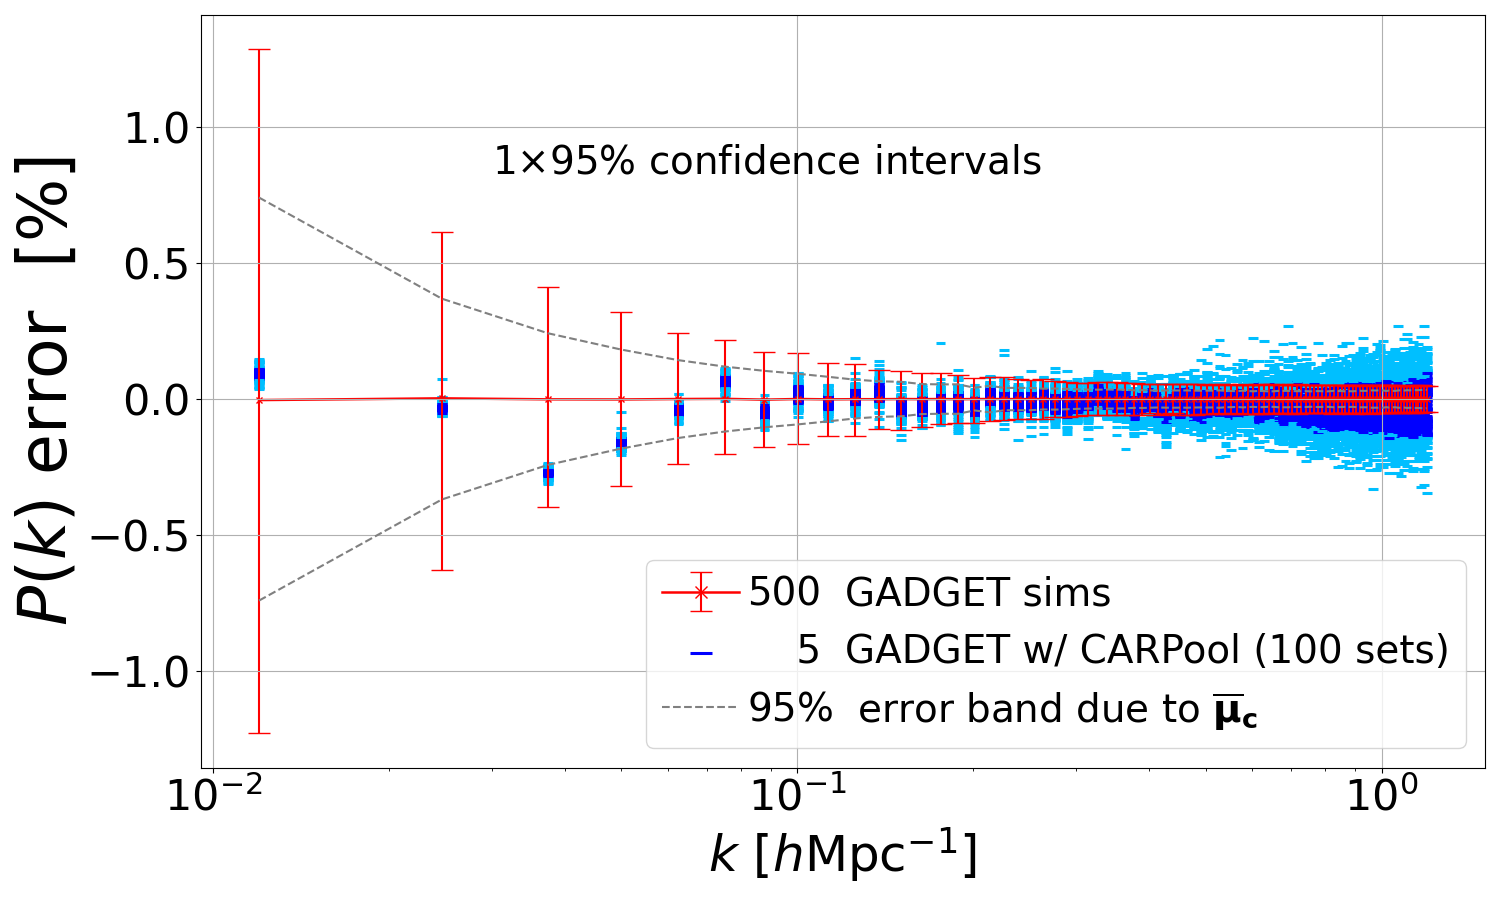
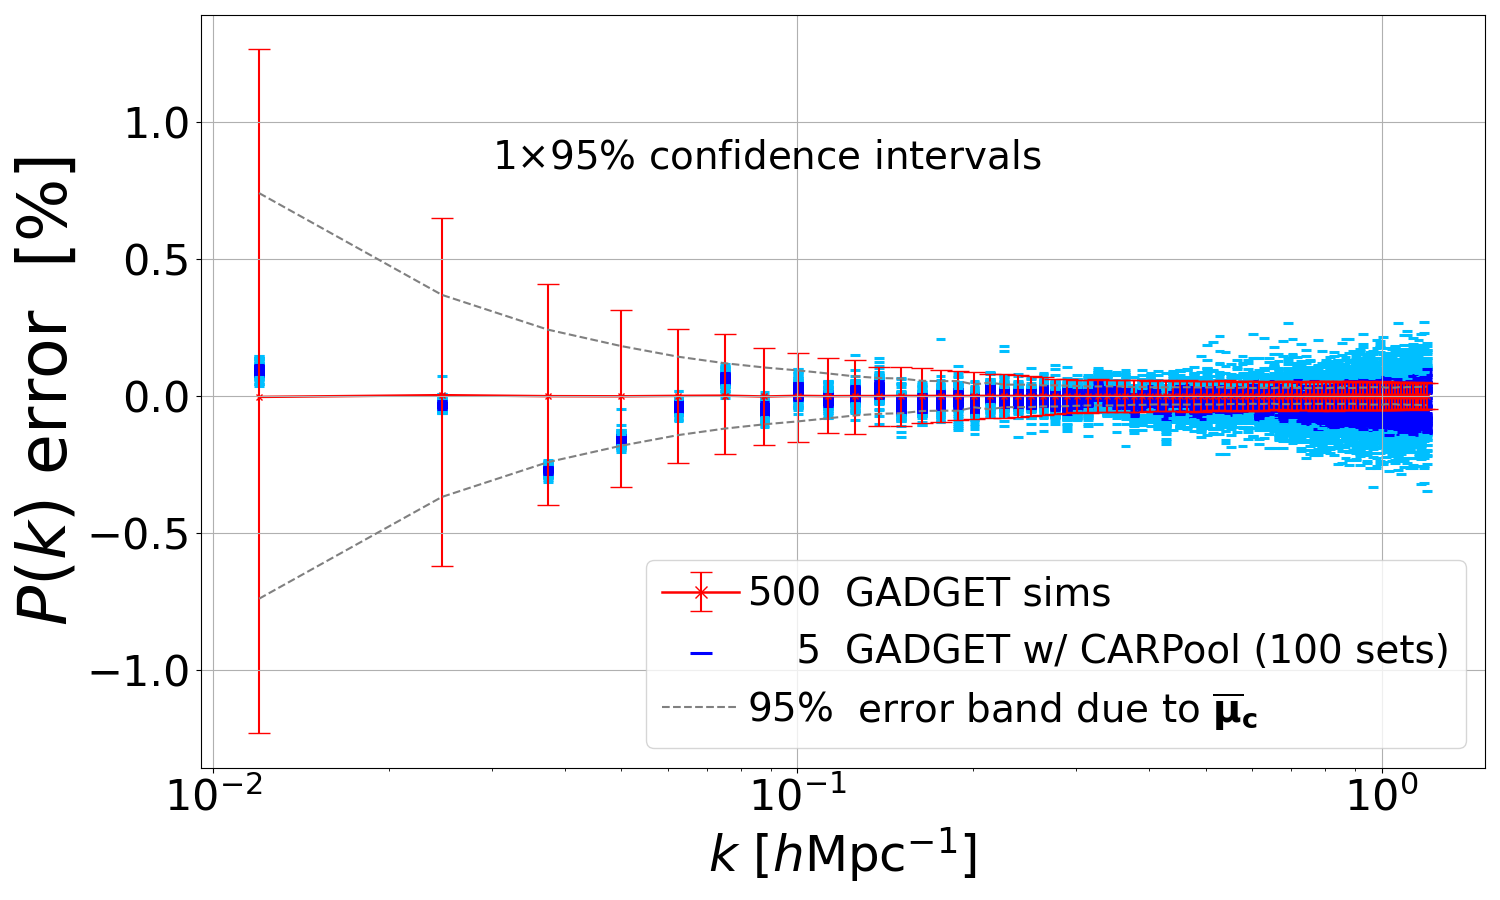
Some corrections for q > 1

diff --git a/pyCARPool/carpool.py b/pyCARPool/carpool.py
@@ -271,7 +271,7 @@ class CARPool:
 
             '''
             
-            S = int(self.P*(self.P + 1)/2)
+            S = int(self.P*(self.P + 1)/2) # number of unique elements in a (P,P) symmetric matrix
             self.PSDBool = [] # list of booleans for positive semi-definiteness test
             
             # Set functions that differ given the arguments
@@ -279,7 +279,8 @@ class CARPool:
             vectorize = vectorizeSymMat if standardVec else customVectorizeSymMat
             reconstruct = reconstructSymMat if standardVec else customReconstructSymMat
             
-            # reconstruct must be available to the user to visualize the data
+            # reconstruct/vectorize must be available to the user to visualize the data
+            self.vectorizeSymMat = vectorize
             self.reconstructSymMat = reconstruct
             
             strStart = "INCREMENTAL" if self.Incremental == True else "FIXED"
@@ -287,6 +288,7 @@ class CARPool:
             
             # Initialize the attributes hosting results
             self.covCARPool = np.zeros((S, self.nTests), dtype = np.float)
+            self.betaCovList = []
 
             if methodCI != "None":
                 self.lowCovCI = np.zeros((S, self.nTests), dtype = np.float)
@@ -322,6 +324,7 @@ class CARPool:
                     
                     # Here beta is a 1D array of floats
                     beta = uvCARPool_Beta(simSamples, surrSamples, self.smDict)
+                    self.betaCovList.append(beta)
                     
                     empSim = np.mean(simSamples, axis = 1)
                     empSurr = np.mean(surrSamples, axis = 1)
@@ -368,6 +371,7 @@ class CARPool:
                     muX, beta = hbCARPool_Est(simSamples, surrSamples, vectMuC, self.q)
                     
                     self.covCARPool[:,k] = corr * muX
+                    self.betaCovList.append(beta)
                     
                     psd = is_PSD(reconstruct(muX))
                     self.PSDBool.append(psd)
@@ -382,6 +386,33 @@ class CARPool:
                         self.upCovCI[:,k] = corr * upCI
              
             testprint("TEST FINISHED FOR COVARIANCE")
+            
+        def varianception(self, simData, surrData, covSurr, betaCovList, standardVec):
+            
+            if self.nTests != len(self.betaCovList):
+                print("The number of beta matrices (for covariance) is not the same as nTests. Check consistency") 
+            
+            # Set functions that differ given the arguments
+            testprint = print if self.verbose else lambda *a, **k: None
+            vectorize = vectorizeSymMat if standardVec else customVectorizeSymMat
+            
+            # np.ndarray.copy() produces a deep copy (necessary if cauldron != identity)
+            simSamples = vectOuterProd(centeredData(simData), standardVec)
+            surrSamples = vectOuterProd(centeredData(surrData),standardVec)
+            
+            # Covariance of surrogate
+            vectMuC = vectorize(covSurr)
+            
+            # Initialize results array
+            sigma2Cov = np.zeros((simSamples.shape[0], self.nTests), dtype = np.float)
+                 
+            for k in range(self.nTests):
+                
+                xColl = CARPoolSamples(simSamples, surrSamples, vectMuC, self.p, self.q, self.betaCovList[k])
+                sigma2Cov[:,k] = np.var(xColl, axis = 1, ddof = 1)
+                testprint("Variance of covariance, test %i over %i done"%(k + 1, self.nTests))
+                
+            return sigma2Cov
 #%% ESTIMATION TOOLS
 
 ########################
@@ -599,7 +630,6 @@ def mvCARPool_Mu(empSim, empSurr, muSurr, betaMat):
     muCARP = empSim - np.matmul(betaMat, empSurr - muSurr)
     
     return muCARP
-    
 
 def mvCARPool_CI(simSamples, surrSamples, muSurr, beta, method, alpha, B):
     
@@ -743,15 +773,8 @@ def confidenceInt(dataSamples, method, alpha, B = 1000, progress = False):
 
 #%% Other handy functions, accessible outside of the class in the package
 
-# The default value of "cauldron" input is the identity function   
-def identity(X):
-    return X
-
 # Compute a single CARPool estimate with samples provided as inputs
-def CARPoolMu(simData, surrData, muSurr, p, q, smDict = None, cauldron = identity):
-    
-    simSamples = cauldron(simData)
-    surrSamples = cauldron(surrData)
+def CARPoolMu(simSamples, surrSamples, muSurr, p, q, smDict = None):
     
     P = simSamples.shape[0]
     Q = surrSamples.shape[0]
@@ -797,7 +820,6 @@ def CARPoolSamples(simSamples, surrSamples, muSurr, p, q, beta):
             raise ValueError("P and Q must be the same for this framework")
             
         betaMat = np.diag(beta)
-        
         xSamples = simSamples - np.matmul(betaMat, surrSamples - muSurr[:,np.newaxis])
         
     elif p == 1 and q > 1:
@@ -808,12 +830,10 @@ def CARPoolSamples(simSamples, surrSamples, muSurr, p, q, beta):
         shift = math.floor(q/2)
         nBins = simSamples.shape[0]
         
-        betaLength = nBins * q - 2 * shift
-        
-        if betaLength != beta.shape[0]:
-            raise ValueError("beta has not the right length")
-        
+        # Initialization
         xSamples = np.zeros((nBins, simSamples.shape[1]), dtype = np.float)
+        bStart = 0
+        bEnd = 0
         
         for n in range(nBins):
             
@@ -822,9 +842,8 @@ def CARPoolSamples(simSamples, surrSamples, muSurr, p, q, beta):
             cStart = a if a >= 0 else 0
             cEnd = b + 1 if b + 1 < nBins else nBins
             
-            bStart = n * q - 1 if n > 0 else 0
-            bEnd = (n + 1) * q - 1 if n < nBins - 1 else betaLength
-            
+            bStart = bEnd
+            bEnd += cEnd - cStart
             betaMat = beta[bStart:bEnd]
             
             xSamples[n,:] = simSamples[n,:] - np.matmul(betaMat, surrSamples[cStart:cEnd,:] - muSurr[cStart:cEnd, np.newaxis])

diff --git a/examples/matterPk/main_examplePk.py b/examples/matterPk/main_examplePk.py
@@ -127,19 +127,19 @@ titleBool = False
 
 toolsPk.plot_cvRatiosBlues(muY, nSampSim, lowY, upY, barBool, testFix.muCARPool,
                  stdBetaAdd,boolStd, pkStep, k3D, factErrFix, percBool, trueBool,
-                 xlog, titleBool,truth, saveBool = True, saveFold = rootRes, saveStr = "Figure3")
+                 xlog, titleBool,truth, saveBool = False, saveFold = rootRes, saveStr = "Figure3")
 
 #%% VIII) Performance for an increasing number of samples
 methodCIInc = "tscore"
 NInc = 20
 
-testInc = myCARPool.createTest("Every 5 additional samples", pkStep, NInc, p, 5, Incremental = True)
+testInc = myCARPool.createTest("Every 5 additional samples", pkStep, NInc, p, q, Incremental = True)
 testInc.smDict = {"smBool": False,"wname":wname, "wlen": wlen, "indSmooth":indSmoothing}
 testInc.computeTest(myCARPool.simData, myCARPool.surrData, myCARPool.muSurr, methodCIInc, alpha, bootCard)
 
 # Reproduce figure 2 of 2009.08970 (if methodCIInc = bootstrapBCA ; bootstrap results may slightly differ)
 # For figure B2, use methodCIInc = tscore
-nSampCARP = 10
+nSampCARP = 5
 indCV = int(nSampCARP/pkStep) - 1
 factErrInc = 20
 zoomBool = True
@@ -190,34 +190,47 @@ sigmaReducUApp = np.sqrt(sigma2XXU[:,0])/sigYY # impact of an "improper" beta di
 
 toolsPk.plotVarReduc_Cov(reducVarM, reducVarU, sigmaReducM, sigmaReducU, sigmaReducUApp ,testInc_varM.Nsamples, k3D)
 
-#%% VI) Performance with 5 samples
+#%% VI) New test with q = 3
 q2 = 3
-testFix2 = myCARPool.createTest("Every 5 additional samples", pkStep, N, p, q2, Incremental = True)
-testFix2.smDict = {"smBool": False ,"wname":wname, "wlen": wlen, "indSmooth":indSmoothing}
-testFix2.computeTest(myCARPool.simData, myCARPool.surrData, myCARPool.muSurr, methodCIFix, alpha)
+testInc_q2 = myCARPool.createTest("Every 5 additional samples, q = 3", pkStep, NInc2, p, q2, Incremental = True)
+testInc_q2.smDict = {"smBool": False ,"wname":wname, "wlen": wlen, "indSmooth":indSmoothing}
+testInc_q2.computeTest(myCARPool.simData, myCARPool.surrData, myCARPool.muSurr, methodCIInc, alpha)
 
 # Reproduce Figure 3 (bottom panel) of 2009.08970
-nCV = 10
-indTest = int(nCV/pkStep) - 1
-betaMat = np.diag(testFix.betaList[indTest])
+nCV2 = 10
+indTest2 = int(nCV2/pkStep) - 1
 
-# Additional (co)variance brought by the estimation of muC (equation 12 in 2009.08970)
-SigmaBetaAdd = np.linalg.multi_dot([betaMat, SigmaMuC, betaMat.T]) * 1.0/len(seeds_muC)
-stdBetaAdd = np.sqrt(np.diag(SigmaBetaAdd, k = 0))
+toolsPk.Comparison_errBars(muY, testInc_q2.muCARPool[:,indTest2] , k3D, nSampSim, nCV2, 
+                           lowY, upY, testInc_q2.lowMeanCI[:,indTest2], testInc_q2.upMeanCI[:,indTest2],
+                       factErrInc,zoomBool, kTupleLim,zoomFact,tupleCor1, xlog, ylog, reducedPk, powerK)
 
[1 lines of base64/hex data omitted]
-if not(os.path.exists(rootRes)):
-    os.mkdir(rootRes)
+#%% VII) New test with q = 5
 
-barBool = True
-factErrFix = 1.0
-percBool = True
-trueBool = True
-epsilonBool = True
-boolStd = True
-xlog = True
-titleBool = False
+q3 = 5
+testInc_q3 = myCARPool.createTest("Every 5 additional samples, q = 5", pkStep, NInc2, p, q3, Incremental = True)
+testInc_q3.smDict = {"smBool": False ,"wname":wname, "wlen": wlen, "indSmooth":indSmoothing}
+testInc_q3.computeTest(myCARPool.simData, myCARPool.surrData, myCARPool.muSurr, methodCIInc, alpha)
 
-toolsPk.plot_cvRatiosBlues(muY, nSampSim, lowY, upY, barBool, testFix.muCARPool,
-                 stdBetaAdd,boolStd, pkStep, k3D, factErrFix, percBool, trueBool,
-                 xlog, titleBool,truth, saveBool = True, saveFold = rootRes, saveStr = "Figure3")
+# Reproduce Figure 3 (bottom panel) of 2009.08970
+nCV3 = 10
+indTest3 = int(nCV3/pkStep) - 1
+
+toolsPk.Comparison_errBars(muY, testInc_q3.muCARPool[:,indTest3] , k3D, nSampSim, nCV3, 
+                           lowY, upY, testInc_q3.lowMeanCI[:,indTest3], testInc_q3.upMeanCI[:,indTest3],
+                       factErrInc,zoomBool, kTupleLim,zoomFact,tupleCor1, xlog, ylog, reducedPk, powerK)
+
+#%% Extended variance analysis
+
+sigma2XXq2, logdetXXq2, signXXq2 = testInc_q2.varianceAnalysis(gadPk_varTest, colaPk_varTest, myCARPool.muSurr)
+detXXq2 = signXXq2 * np.exp(logdetXXq2)
+reducVarq2 = detXXq2/detYY
+
+sigma2XXq3, logdetXXq3, signXXq3 = testInc_q3.varianceAnalysis(gadPk_varTest, colaPk_varTest, myCARPool.muSurr)
+detXXq3 = signXXq3 * np.exp(logdetXXq3)
+reducVarq3 = detXXq3/detYY
+
+sigmaReducq2 = np.sqrt(sigma2XXq2[:,-1])/sigYY
+sigmaReducq3 =  np.sqrt(sigma2XXq3[:,-1])/sigYY
+
+toolsPk.plotVarReduc_new(reducVarM, reducVarU, reducVarq2,reducVarq3, sigmaReducM,
+                         sigmaReducU,sigmaReducq2, sigmaReducq3, testInc_q2.Nsamples, k3D, q2, q3)

diff --git a/examples/matterPk/tools_examplePk.py b/examples/matterPk/tools_examplePk.py
@@ -363,3 +363,38 @@ def plotVarReduc_Cov(reducVar, reducVarDiag, sigmaReduc, sigmaReducDiag, sigmaRe
     plt.tight_layout()
     plt.grid()
     plt.show()
+    
+def plotVarReduc_new(reducVar, reducVarDiag, reducVarq, reducVarq2, sigmaReduc,
+                     sigmaReducDiag, sigmaReducq, sigmaReducq2 ,nSamplesList,k3D_binned, q, q2):
+    
+    A = plt.figure(figsize=(12,7.5))
+    plt.semilogy(nSamplesList, reducVar, label = "Multivariate CARPool", linewidth = 1.1, marker = "x", markersize = 5, color = "blue")
+    plt.semilogy(nSamplesList, reducVarDiag, label = "Univariate CARPool", linewidth = 1.1, color = "black", marker = "x", markersize  = 5)
+    plt.semilogy(nSamplesList, reducVarq, label = "CARPool q=%i"%q, linewidth = 1.1, color = "orangered", marker = "x", markersize  = 5)
+    plt.semilogy(nSamplesList, reducVarq2, label = "CARPool q=%i"%q2, linewidth = 1.1, color = "indigo", marker = "x", markersize  = 5)
+    plt.xticks(fontsize=27, rotation = 0)
+    plt.yticks(fontsize=27, rotation = 45)
+    plt.xlabel("Number of simulation pairs", fontsize = 27, style = "italic", y = -0.1)
+    plt.ylabel(r'$\frac{det \left(  \mathbf{\Sigma_{xx}}(\mathbf{\hat{\beta}})  \right)}{det \left(  \mathbf{\Sigma_{yy}} \right)}$', 
+                        fontsize = 40, rotation = 90)
+    plt.legend(fontsize = 27, loc = "best")
+    plt.tight_layout()
+    plt.grid()
+    plt.show()
+
+    
+    #%%Plot variance ratio on diagonal only
+    
+    B = plt.figure(figsize=(12,7.5))
+    plt.loglog(k3D_binned, sigmaReduc, label = "Multivariate CARPool", linewidth = 1.1, marker = "x", markersize = 5, color = "blue")
+    plt.loglog(k3D_binned, sigmaReducDiag, label = "Univariate CARPool", linewidth = 1.1, color = "black", marker = "x", markersize  = 5)
+    plt.loglog(k3D_binned, sigmaReducq, label = "CARPool q=%i"%q, linewidth = 1.1, color = "orangered", marker = "x", markersize  = 5)
+    plt.loglog(k3D_binned, sigmaReducq2, label = "CARPool q=%i"%q2, linewidth = 1.1, color = "indigo", marker = "x", markersize  = 5)
+    plt.xticks(fontsize=27, rotation = 0)
+    plt.yticks(fontsize=27, rotation = 45)
+    plt.xlabel(r'$k$ $[h{\rm Mpc^{-1}}]$', fontsize = 32, style = "italic", y = -0.1)
+    plt.ylabel(r"$\frac{\sigma_x}{\sigma_y}$", fontsize = 48, rotation = 0.0, labelpad = 27)
+    plt.legend(fontsize = 27, loc = "lower right")
+    plt.tight_layout()
+    plt.grid()
+    plt.show()

diff --git a/setup.py b/setup.py
@@ -2,7 +2,7 @@ import setuptools
 
 setuptools.setup(
     name="pyCARPool",
-    version="0.1.3",
+    version="0.1.4",
     author="Nicolas Chartier",
     author_email="nicolas.chartier412@gmail.com",
     description="Provides custom class and functions to implement CARPool estimates, stemming from the control variates principle (arXiv 2009.08970)",

diff --git a/pyCARPool/__init__.py b/pyCARPool/__init__.py
@@ -1,4 +1,4 @@
-from .carpool import CARPool, confidenceInt, CARPoolMu, CARPoolSamples, covMat2CorrMat
+from .carpool import CARPool, confidenceInt, CARPoolMu, CARPoolSamples, covMat2CorrMat, is_PSD, is_PD, vectOuterProd, centeredData
 
-__version__ = "0.1"
+__version__ = "0.1.4"
 __author__ = "Nicolas Chartier"
